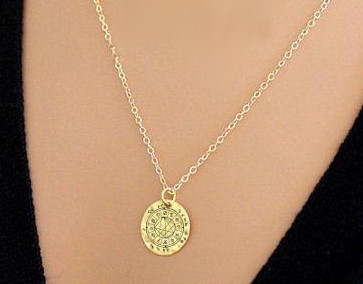
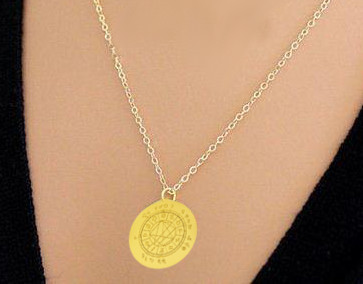
image updates, move db pw to config file

Changed region(s): [[0.3333, 0.6761, 0.5455, 0.9577]]

diff --git a/index.html b/index.html
@@ -116,6 +116,10 @@
                     a beautiful adornment.
                 </p>
 
+                <p class="small-only">
+                    <img class="hero-image" src="images/pendant_on_woman.jpg" alt="A StarCharm pendant">
+                </p>
+
                 <p>
                     <strong>Do the stars influence your future?</strong> Many people know their ˜birth sign¨—
                     the sector of the Zodiac, like Taurus, Virgo, or Scorpio, that is ascendant at the time of their
@@ -127,7 +131,9 @@
             </div>
 
             <div class="one-half column">
-                <img class="hero-image" src="images/pendant_on_woman.jpg" alt="A StarCharm pendant">
+                <p class="large-only">
+                    <img class="hero-image" src="images/pendant_on_woman.jpg" alt="A StarCharm pendant">
+                </p>
             </div>
         </div>
     </div>
@@ -184,14 +190,14 @@
             </div>
 
             <div class="one-third column colors-image-wrapper">
-                <img src="images/colors.jpg" alt="StarCharm metal options">
+                <img src="images/pendantcolors.png" alt="StarCharm metal options">
                 <p class="caption">Sterling silver, white gold, 14k gold and rose gold</p>
             </div>
 
 
             <div class="row">
                 <div class="one-half column category pendant-example">
-                    <img src="images/starcharm_front.png">
+                    <img src="images/starcharm_front.jpg">
                     <p class="caption"><em>StarCharm</em> pendant—front view</p>
 
                 </div>
@@ -241,19 +247,19 @@
         <div class="row">
             <div class="one-half column">
                 <p><strong>Each <em>StarCharm</em> adornment comes with a complete astrological report
-                interpreting its Natal Chart.</strong></p>
+                    interpreting its Natal Chart.</strong></p>
 
                 <p>It includes details about the Zodiac positions of each of the heavenly bodies represented
-                on the chart—not only the Sun but also the Moon, Mercury, Venus, Mars, Jupiter,
-                Uranus and Pluto, along with other bodies considered influential by astrology such as Lilith
-                and the Ascendant node. </p>
+                    on the chart—not only the Sun but also the Moon, Mercury, Venus, Mars, Jupiter,
+                    Uranus and Pluto, along with other bodies considered influential by astrology such as Lilith
+                    and the Ascendant node. </p>
 
                 <p>Also included are details of the relationships of these bodies—which are in favorable
-                aspects to each other, reinforcing their influence, and which may be cancelling out
-                each other's effects.</p>
+                    aspects to each other, reinforcing their influence, and which may be cancelling out
+                    each other's effects.</p>
 
                 <p>All of these details will be interpreted to suggest how their influences and
-                combinations may bear on the person they describe and what the future may hold.</p>
+                    combinations may bear on the person they describe and what the future may hold.</p>
             </div>
 
             <div class="one-half column report-image-wrapper">
@@ -266,16 +272,19 @@
 
 <div class="section">
     <div class="container">
-        <h3 class="section-heading"><em>StarCharm</em>—coming soon</h3>
+        <h3 class="section-heading pre-launch"><em>StarCharm</em>—coming soon</h3>
 
         <div class="row">
             <div class="one-half column">
-                <p>The <em>StarCharm</em> online store will be launching soon. To receive an email when
-                you can order <em>StarCharm</em> jewelry, please share your email
-                address with us. As soon as the stars align, we'll let you
-                know you can return to place your order.</p>
+                <h5>Reserve a 10% pre-launch discount</h5>
 
-                <p><strong>Thanks for your interest in <em>StarCharm</em>.</strong></p>
+                <p>The <em>StarCharm</em> online store will be launching soon. To receive an email when
+                    you can order <em>StarCharm</em> jewelry—with a <strong>10% discount</strong> code for your
+                    first order—please share your email address with us.</p>
+
+                <p>As soon as the stars align, we'll let you
+                    know you can return to place your order.
+                    <strong>Thanks for your interest in <em>StarCharm</em>.</strong></p>
             </div>
 
             <div class="one-half column notify-me-form">
@@ -294,9 +303,12 @@
                 </div>
 
 
-                <p><small>We promise not to share your email address or use it
-                    for any purpose other than to notify you when the StarCharm online
-                    store is available for orders.</small></p>
+                <p>
+                    <small>We promise not to share or sell your email address or use it
+                        for any purpose other than to notify you when the StarCharm online
+                        store is available for orders.
+                    </small>
+                </p>
             </div>
         </div>
     </div>

diff --git a/css/custom.css b/css/custom.css
@@ -2,6 +2,17 @@ body {
     background-color: cornsilk;
 }
 
+@media only screen and (min-width: 550px) {
+    .small-only {
+        display: none;
+    }
+}
+
+@media only screen and (max-width: 549px) {
+    .large-only {
+        display: none;
+    }
+}
 
 .logo {
     max-width: 80vw;
@@ -79,6 +90,10 @@ body {
     margin-bottom: 20px;
 }
 
+.colors-image-wrapper img {
+    max-width: 200px;
+}
+
 .report-image-wrapper {
     text-align: center;
 }
@@ -98,6 +113,10 @@ body {
     }
 }
 
+.pre-launch {
+    margin-bottom: 0;
+}
+
 #emailform {
     margin-bottom: 1rem;
 }
@@ -105,6 +124,7 @@ body {
 .notify-me-form h5 {
     margin-top: 20px;
     margin-bottom: 0;
+    color: #4ebbcc;
 }
 
 .notify-me-form button {

diff --git a/showemails.php b/showemails.php
@@ -2,9 +2,15 @@
 
 // prints out emails stored in starcharm email database
 
+// get db pw from config file
+$configFile = "../../../config/sc_db_pw.txt";
+$fh = fopen($configFile, 'r');
+$db_pw = fread($fh, filesize($configFile));
+fclose($fh);
+
 $servername = "localhost";
 $username = "webmondc_star";
-$password = "[private]";
+$password = $db_pw;
 $db = "webmondc_starcharm";
 
 $header = "<html> <head><title>Starcharm saved emails</title> </head> </html> <body style='font-family: sans-serif'>";
@@ -20,16 +26,22 @@ if ($conn->connect_error) {
 
 mysql_select_db($db) or die( "Unable to select database");
 
-@mysql_query("BEGIN");
-$query = "SELECT * from email;";
-$result=mysql_query($query);
+$query1 = "SELECT count(*) as num_emails from email;";
+$result1=mysql_query($query1);
+while ($row1 = mysql_fetch_assoc($result1)) {
+    $email_count = number_format($row1["num_emails"]);
+}
+
+$query2 = "SELECT * from email;";
+$result2=mysql_query($query2);
+
 mysql_close();
 
 echo $header;
-echo "<h3>Starcharm saved emails</h3>";
+echo "<h3>" . $email_count . " Starcharm saved emails</h3>";
 echo "<table border='1' cellspacing='0' cellpadding='4'>";
 
-while ($row = mysql_fetch_assoc($result)) {
+while ($row = mysql_fetch_assoc($result2)) {
     $email = $row['email'];
     $create_time = $row['create_time'];
     $line = $email . " </td><td>" . $create_time . "<br>";

diff --git a/saveemail.php b/saveemail.php
@@ -2,9 +2,15 @@
 
 // inserts an email address from request param if not a duplicate
 
+// get db pw from config file
+$configFile = "../../../config/sc_db_pw.txt";
+$fh = fopen($configFile, 'r');
+$db_pw = fread($fh, filesize($configFile));
+fclose($fh);
+
 $servername = "localhost";
 $username = "webmondc_star";
-$password = "[private]";
+$password = $db_pw;
 $db = "webmondc_starcharm";
 $address = urldecode($_REQUEST['email']);
 $error = "";
